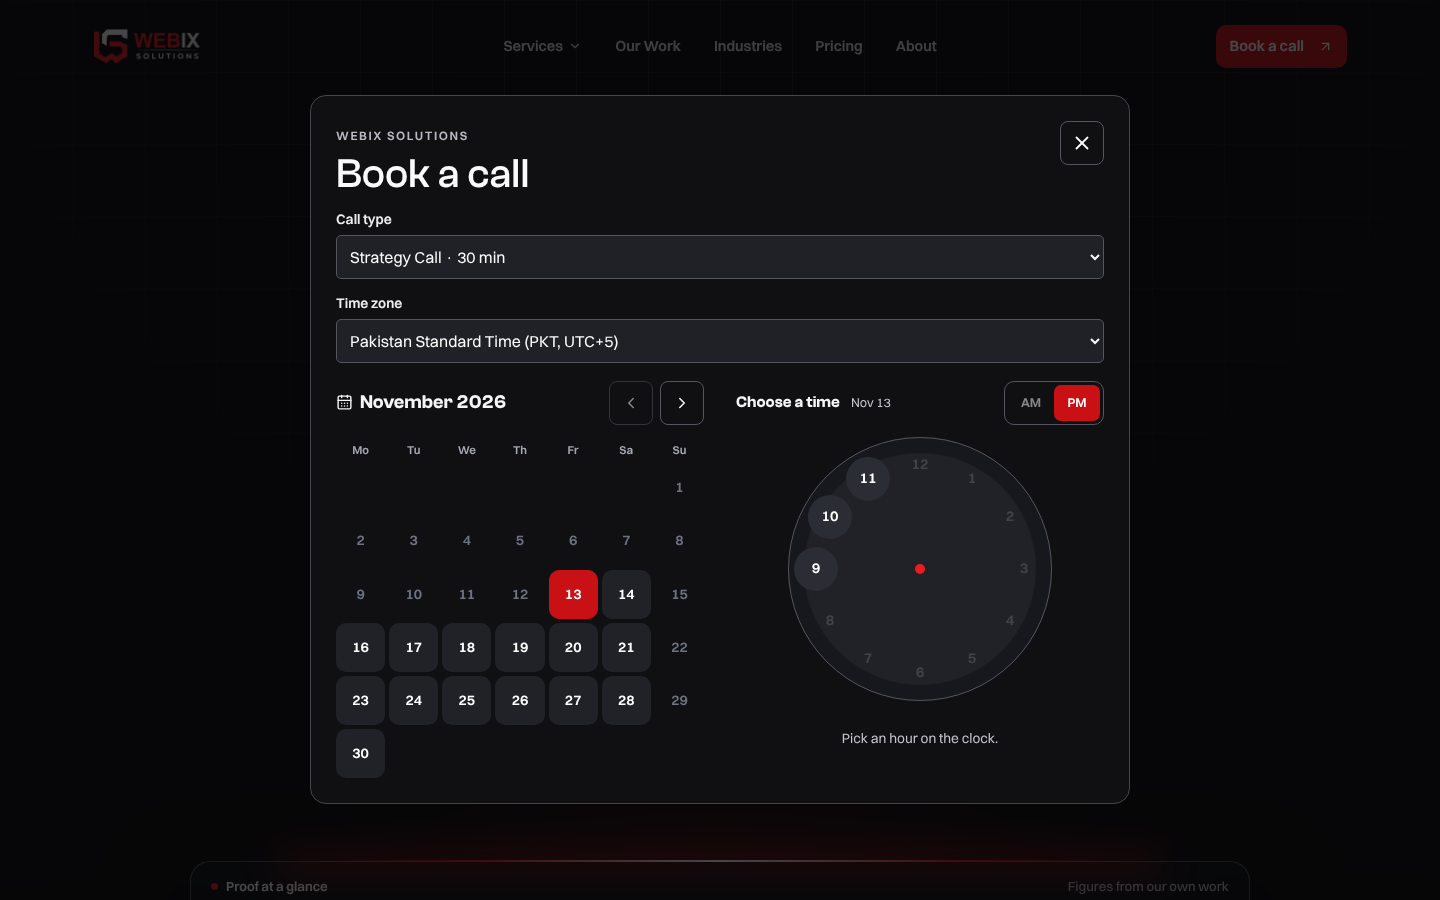
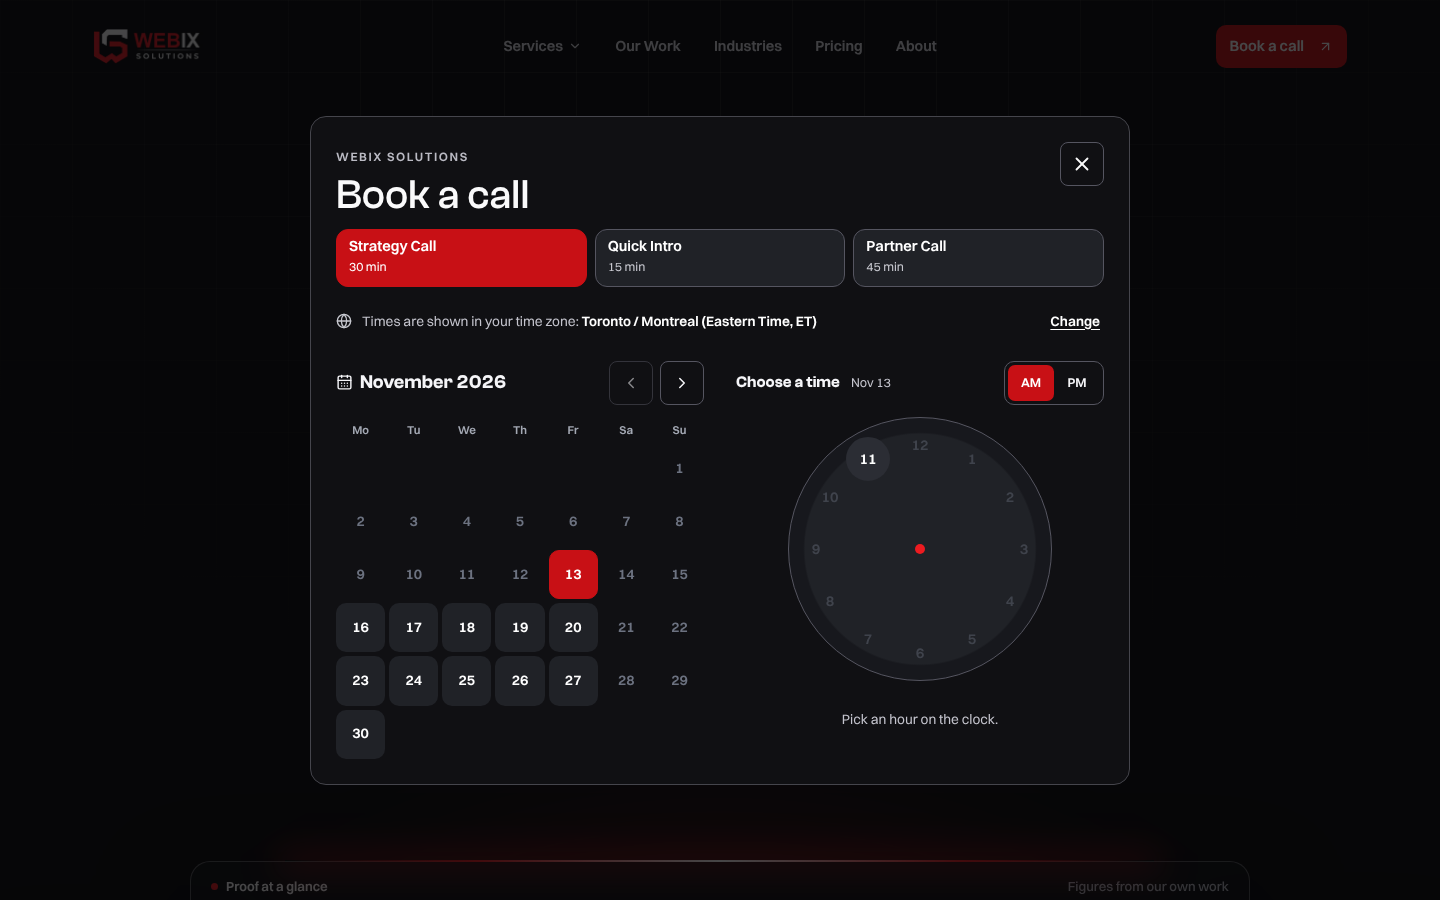
Detect the visitor's time zone in booking and drop the two dropdowns
Call type is three buttons and the time zone is detected from the
browser and shown as one line with a Change link. Requests sent from
another time zone also carry the Pakistan time for the team.

Claude-Session: https://claude.ai/code/session_01S5YLEG3oSjRgb64pPUN6WE

diff --git a/components/booking/booking-widget.tsx b/components/booking/booking-widget.tsx
@@ -3,7 +3,7 @@
 import * as React from "react";
 import { useEffect, useId, useMemo, useRef, useState, type FormEvent } from "react";
 import Script from "next/script";
-import { CalendarDays, Check, ChevronLeft, ChevronRight } from "lucide-react";
+import { CalendarDays, Check, ChevronLeft, ChevronRight, Globe } from "lucide-react";
 import { BOOKING_CONFIG } from "@/config/booking";
 import { getPublishedServices } from "@/content/services";
 import { SITE_FACTS } from "@/content/site-facts";
@@ -50,6 +50,7 @@ export function BookingWidget({
   const [loading, setLoading] = useState(true);
   const [unavailable, setUnavailable] = useState(false);
   const [requestOnly, setRequestOnly] = useState(false);
+  const [zoneOpen, setZoneOpen] = useState(false);
   const [sending, setSending] = useState(false);
   const [error, setError] = useState("");
   const [refresh, setRefresh] = useState(0);
@@ -144,6 +145,16 @@ export function BookingWidget({
   const timezoneOptions = COMMON_TIMEZONES.some((zone) => zone.value === timezone)
     ? COMMON_TIMEZONES : [{ value: timezone, label: timezone }, ...COMMON_TIMEZONES];
 
+  // Name the detected zone the way a visitor would: city plus the current abbreviation.
+  const zoneLabel = useMemo(() => {
+    const known = COMMON_TIMEZONES.find((zone) => zone.value === timezone)?.label;
+    if (known) return known;
+    const city = timezone.split("/").pop()?.replace(/_/g, " ") ?? timezone;
+    const abbr = new Intl.DateTimeFormat("en-US", { timeZone: timezone, timeZoneName: "short" })
+      .formatToParts(new Date()).find((part) => part.type === "timeZoneName")?.value;
+    return abbr ? `${city} (${abbr})` : city;
+  }, [timezone]);
+
   function reloadAvailability() {
     setLoading(true);
     setUnavailable(false);
@@ -187,6 +198,9 @@ export function BookingWidget({
 
   const appointment = selected && `${labelDay(selected.visitorDateKey, { weekday: "long", month: "long", day: "numeric" })}, ${selected.visitorTimeFormatted} ${selected.visitorTzAbbr}`;
 
+  const hostNote = selected && timezone !== BOOKING_CONFIG.hostTimeZone
+    ? ` (${selected.hostTimeFormatted} on ${labelDay(selected.hostDateKey, { month: "short", day: "numeric" })}, Pakistan time)` : "";
+
   function addToCalendar() {
     if (!reserved) return;
     downloadIcsFile("webix-solutions-call.ics", generateIcsContent({
@@ -216,9 +230,9 @@ export function BookingWidget({
           <p>Send the time to our team on WhatsApp or by email. We reply to confirm it or suggest the nearest free time.</p>
           <div className="booking-request-actions">
             <a className="studio-button" target="_blank" rel="noopener noreferrer"
-              href={`https://wa.me/${SITE_FACTS.contact.whatsappNumber}?text=${encodeURIComponent(`Hi Webix Solutions, I would like to book a ${meeting.title} on ${appointment}.`)}`}>Send on WhatsApp</a>
+              href={`https://wa.me/${SITE_FACTS.contact.whatsappNumber}?text=${encodeURIComponent(`Hi Webix Solutions, I would like to book a ${meeting.title} on ${appointment}${hostNote}.`)}`}>Send on WhatsApp</a>
             <a className="studio-button studio-button-outline"
-              href={`mailto:${SITE_FACTS.contact.email}?subject=${encodeURIComponent(`${meeting.title} request`)}&body=${encodeURIComponent(`Hi Webix Solutions,\n\nI would like to book a ${meeting.title} on ${appointment}.\n\nName:\nCompany or website:\n`)}`}>Send by email</a>
+              href={`mailto:${SITE_FACTS.contact.email}?subject=${encodeURIComponent(`${meeting.title} request`)}&body=${encodeURIComponent(`Hi Webix Solutions,\n\nI would like to book a ${meeting.title} on ${appointment}${hostNote}.\n\nName:\nCompany or website:\n`)}`}>Send by email</a>
           </div>
         </div>
       ) : selected ? (
@@ -240,17 +254,25 @@ export function BookingWidget({
         </form>
       ) : (
         <>
-          <div className="booking-field-row">
-            <label htmlFor={`${baseId}-type`}>Call type</label>
-            <select id={`${baseId}-type`} value={type} onChange={(event) => { setLoading(true); setType(event.target.value as MeetingType); }}>
-              {BOOKING_CONFIG.meetingTypes.map((item) => <option value={item.slug} key={item.slug}>{item.title} · {item.minutes} min</option>)}
-            </select>
+          <div className="booking-types" role="group" aria-label="Call type">
+            {BOOKING_CONFIG.meetingTypes.map((item) => (
+              <button key={item.slug} type="button" aria-pressed={type === item.slug}
+                onClick={() => { if (type !== item.slug) { setLoading(true); setType(item.slug as MeetingType); } }}>
+                <strong>{item.title}</strong><span>{item.minutes} min</span>
+              </button>
+            ))}
           </div>
-          <div className="booking-field-row">
-            <label htmlFor={`${baseId}-zone`}>Time zone</label>
-            <select id={`${baseId}-zone`} value={timezone} onChange={(event) => { setLoading(true); setTimezone(event.target.value); }}>
-              {timezoneOptions.map((zone) => <option key={zone.value} value={zone.value}>{zone.label}</option>)}
-            </select>
+          <div className="booking-zone">
+            <Globe size={16} aria-hidden="true" />
+            <p>Times are shown in your time zone: <strong>{zoneLabel}</strong></p>
+            <button type="button" className="booking-zone-change" aria-expanded={zoneOpen} aria-controls={`${baseId}-zone`} onClick={() => setZoneOpen(!zoneOpen)}>
+              {zoneOpen ? "Done" : "Change"}
+            </button>
+            {zoneOpen && (
+              <select id={`${baseId}-zone`} aria-label="Time zone" value={timezone} onChange={(event) => { setLoading(true); setTimezone(event.target.value); setZoneOpen(false); }}>
+                {timezoneOptions.map((zone) => <option key={zone.value} value={zone.value}>{zone.label}</option>)}
+              </select>
+            )}
           </div>
           {loading ? <p role="status">Checking available times…</p> : unavailable ? (
             <div role="status" className="booking-unavailable">

diff --git a/app/studio-home.css b/app/studio-home.css
@@ -565,3 +565,19 @@ body:has(.interior-closing) .studio-footer-cta { display: none; }
 .booking-request-time { color: #fff !important; font: 600 1.15rem/1.3 var(--font-clash-grotesk),sans-serif; }
 .booking-request-actions { display: flex; flex-wrap: wrap; gap: 10px; margin-top: 6px; }
 .booking-dialog .booking-panel { border: 0; padding: 0; background: none; }
+
+/* Booking: call type as buttons, time zone detected and shown as one line */
+.booking-types { display: grid; grid-template-columns: repeat(3, minmax(0,1fr)); gap: 8px; }
+.booking-types button { display: grid; gap: 2px; min-height: 56px; padding: 8px 12px; border: 1px solid #555560; border-radius: 12px; background: #202227; color: #fff; text-align: left; cursor: pointer; }
+.booking-types button:hover { border-color: #fff; }
+.booking-types button[aria-pressed="true"] { background: var(--studio-action); border-color: var(--studio-action); }
+.booking-types strong { font-size: .92rem; font-weight: 650; line-height: 1.2; }
+.booking-types span { color: #c7c8cf; font-size: .78rem; }
+.booking-types button[aria-pressed="true"] span { color: #fff; }
+.booking-zone { display: flex; flex-wrap: wrap; align-items: center; gap: 6px 10px; margin-top: 12px; font-size: .86rem; }
+.booking-zone svg { flex: none; color: #c7c8cf; }
+.booking-zone p { flex: 1 1 200px; }
+.booking-zone p strong { color: #fff; font-weight: 600; }
+.booking-zone-change { min-height: 44px; padding-inline: 4px; color: #fff; font-weight: 600; text-decoration: underline; text-underline-offset: 3px; cursor: pointer; }
+.booking-zone select { flex-basis: 100%; }
+@media (max-width: 420px) { .booking-types strong { font-size: .82rem; } .booking-types button { padding-inline: 9px; } }
